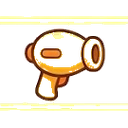
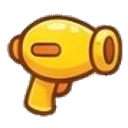
Fix sprite transparency by re-extracting from template sheet
AI-generated PNGs had baked checkerboard and matte backgrounds. Re-crop
parts and enemies from template-sheet.jpg, flood-remove checkerboard,
and defringe before saving RGBA assets. Add scripts/fix_asset_transparency.py
to regenerate locally when art changes.

diff --git a/scripts/fix_asset_transparency.py b/scripts/fix_asset_transparency.py
@@ -1,0 +1,258 @@
+#!/usr/bin/env python3
+"""Re-crop game sprites from template-sheet.jpg and strip baked checkerboard backgrounds."""
+
+from __future__ import annotations
+
+from collections import deque
+from pathlib import Path
+
+import numpy as np
+from PIL import Image
+
+ROOT = Path(__file__).resolve().parents[1]
+SHEET = ROOT / "assets/builder/template-sheet.jpg"
+
+# Bounding boxes from sat_mask.png on the 808×1024 template (left, top, right, bottom).
+CROPS: dict[str, tuple[int, int, int, int]] = {
+    "assets/builder/wing-rocket.png": (345, 230, 417, 276),
+    "assets/builder/wing-angel.png": (446, 200, 549, 266),
+    "assets/builder/wing-bat.png": (558, 206, 684, 257),
+    "assets/builder/wing-butterfly.png": (693, 200, 785, 267),
+    "assets/builder/core-green.png": (336, 292, 428, 368),
+    "assets/builder/core-star.png": (458, 292, 537, 368),
+    "assets/builder/core-blue.png": (575, 292, 667, 368),
+    "assets/builder/core-rocket.png": (704, 287, 773, 369),
+    "assets/builder/blaster-ray.png": (336, 388, 430, 448),
+    "assets/builder/blaster-tri.png": (492, 388, 562, 465),
+    "assets/builder/blaster-yellow.png": (578, 391, 661, 465),
+    "assets/builder/blaster-missile.png": (692, 384, 792, 448),
+    "assets/enemies/bug-ladybug.png": (317, 904, 401, 977),
+    "assets/enemies/bug-bee.png": (437, 898, 520, 981),
+    "assets/enemies/bug-purple.png": (564, 911, 655, 975),
+    "assets/enemies/bug-brown.png": (689, 903, 769, 985),
+}
+
+OUT_SIZE = {
+    "assets/builder/": 128,
+    "assets/enemies/": 96,
+}
+
+
+def is_light_bg(r: int, g: int, b: int, a: int, light_min: int) -> bool:
+    if a < 10:
+        return True
+    return r >= light_min and g >= light_min and b >= light_min
+
+
+def is_dark_bg(r: int, g: int, b: int, a: int, dark_max: int, dark_spread: int) -> bool:
+    if a < 10:
+        return True
+    mx, mn = int(max(r, g, b)), int(min(r, g, b))
+    return mx <= dark_max and (mx - mn) <= dark_spread
+
+
+def flood_background(arr: np.ndarray, mask_fn) -> np.ndarray:
+    h, w = arr.shape[:2]
+    seen = np.zeros((h, w), dtype=bool)
+    q: deque[tuple[int, int]] = deque()
+
+    def seed(y: int, x: int) -> None:
+        if mask_fn(y, x) and not seen[y, x]:
+            seen[y, x] = True
+            q.append((y, x))
+
+    for x in range(w):
+        seed(0, x)
+        seed(h - 1, x)
+    for y in range(h):
+        seed(y, 0)
+        seed(y, w - 1)
+
+    while q:
+        y, x = q.popleft()
+        for ny, nx in ((y - 1, x), (y + 1, x), (y, x - 1), (y, x + 1)):
+            if 0 <= ny < h and 0 <= nx < w and not seen[ny, nx] and mask_fn(ny, nx):
+                seen[ny, nx] = True
+                q.append((ny, nx))
+    return seen
+
+
+def strip_checkerboard(im: Image.Image) -> Image.Image:
+    arr = np.array(im.convert("RGBA"), copy=True)
+    light_min, dark_max, dark_spread = 190, 115, 65
+
+    def light(y: int, x: int) -> bool:
+        r, g, b, a = arr[y, x]
+        return is_light_bg(int(r), int(g), int(b), int(a), light_min)
+
+    def dark(y: int, x: int) -> bool:
+        r, g, b, a = arr[y, x]
+        return is_dark_bg(int(r), int(g), int(b), int(a), dark_max, dark_spread)
+
+    bg = flood_background(arr, light) | flood_background(arr, dark)
+    arr[bg, 3] = 0
+    return Image.fromarray(arr)
+
+
+def is_fringe_color(r: int, g: int, b: int) -> bool:
+    """Near-neutral light pixels from checkerboard / matte removal."""
+    mx, mn = max(r, g, b), min(r, g, b)
+    if mn < 178:
+        return False
+    if mx - mn > 45:
+        return False
+    return True
+
+
+def defringe(arr: np.ndarray, max_passes: int = 16) -> None:
+    h, w = arr.shape[:2]
+    for _ in range(max_passes):
+        a = arr[:, :, 3]
+        kill = np.zeros((h, w), dtype=bool)
+        for y in range(h):
+            for x in range(w):
+                if a[y, x] == 0:
+                    continue
+                r, g, b = (int(arr[y, x, 0]), int(arr[y, x, 1]), int(arr[y, x, 2]))
+                if not is_fringe_color(r, g, b):
+                    continue
+                for dy in (-1, 0, 1):
+                    for dx in (-1, 0, 1):
+                        if dy == 0 and dx == 0:
+                            continue
+                        ny, nx = y + dy, x + dx
+                        if ny < 0 or ny >= h or nx < 0 or nx >= w or a[ny, nx] == 0:
+                            kill[y, x] = True
+                            break
+                    if kill[y, x]:
+                        break
+        if not kill.any():
+            break
+        arr[kill, 3] = 0
+
+
+def trim_and_pad(im: Image.Image, size: int) -> Image.Image:
+    arr = np.array(im)
+    ys, xs = np.where(arr[:, :, 3] > 8)
+    if len(xs) == 0:
+        return Image.new("RGBA", (size, size), (0, 0, 0, 0))
+    x0, x1 = xs.min(), xs.max()
+    y0, y1 = ys.min(), ys.max()
+    pad = max(2, int(max(x1 - x0, y1 - y0) * 0.06))
+    x0 = max(0, x0 - pad)
+    y0 = max(0, y0 - pad)
+    x1 = min(arr.shape[1] - 1, x1 + pad)
+    y1 = min(arr.shape[0] - 1, y1 + pad)
+    cropped = im.crop((x0, y0, x1 + 1, y1 + 1))
+    cw, ch = cropped.size
+    scale = min((size - 8) / cw, (size - 8) / ch)
+    nw, nh = max(1, int(cw * scale)), max(1, int(ch * scale))
+    resized = cropped.resize((nw, nh), Image.Resampling.LANCZOS)
+    out = Image.new("RGBA", (size, size), (0, 0, 0, 0))
+    out.paste(resized, ((size - nw) // 2, (size - nh) // 2), resized)
+    return out
+
+
+def scrub_near_white(arr: np.ndarray) -> None:
+    """Remove leftover checkerboard specks (nearly neutral white)."""
+    h, w = arr.shape[:2]
+    for y in range(h):
+        for x in range(w):
+            if arr[y, x, 3] == 0:
+                continue
+            r, g, b = (int(arr[y, x, 0]), int(arr[y, x, 1]), int(arr[y, x, 2]))
+            mn, mx = min(r, g, b), max(r, g, b)
+            if mn >= 205 and (mx - mn) <= 28:
+                arr[y, x, 3] = 0
+
+
+def keep_largest_component(im: Image.Image, min_relative: float = 0.12) -> Image.Image:
+    """Drop stray fringe islands; keep the main sprite silhouette."""
+    arr = np.array(im.convert("RGBA"), copy=True)
+    a = arr[:, :, 3] > 20
+    h, w = a.shape
+    seen = np.zeros((h, w), dtype=bool)
+    best: list[tuple[int, int]] = []
+
+    for y in range(h):
+        for x in range(w):
+            if not a[y, x] or seen[y, x]:
+                continue
+            q: deque[tuple[int, int]] = deque([(y, x)])
+            seen[y, x] = True
+            coords = [(y, x)]
+            while q:
+                cy, cx = q.popleft()
+                for ny, nx in ((cy - 1, cx), (cy + 1, cx), (cy, cx - 1), (cy, cx + 1)):
+                    if 0 <= ny < h and 0 <= nx < w and a[ny, nx] and not seen[ny, nx]:
+                        seen[ny, nx] = True
+                        q.append((ny, nx))
+                        coords.append((ny, nx))
+            if len(coords) > len(best):
+                best = coords
+
+    if not best:
+        return im
+    mask = np.zeros((h, w), dtype=bool)
+    for y, x in best:
+        mask[y, x] = True
+    drop = a & ~mask
+    main_area = len(best)
+    seen[:] = False
+    for y in range(h):
+        for x in range(w):
+            if not a[y, x] or seen[y, x]:
+                continue
+            q = deque([(y, x)])
+            seen[y, x] = True
+            coords = [(y, x)]
+            while q:
+                cy, cx = q.popleft()
+                for ny, nx in ((cy - 1, cx), (cy + 1, cx), (cy, cx - 1), (cy, cx + 1)):
+                    if 0 <= ny < h and 0 <= nx < w and a[ny, nx] and not seen[ny, nx]:
+                        seen[ny, nx] = True
+                        q.append((ny, nx))
+                        coords.append((ny, nx))
+            if len(coords) < main_area * min_relative:
+                for cy, cx in coords:
+                    arr[cy, cx, 3] = 0
+    arr[drop, 3] = 0
+    return Image.fromarray(arr)
+
+
+def process_crop(sheet: Image.Image, box: tuple[int, int, int, int], out_size: int, *, solo: bool) -> Image.Image:
+    im = strip_checkerboard(sheet.crop(box))
+    arr = np.array(im)
+    defringe(arr)
+    scrub_near_white(arr)
+    if solo:
+        im = keep_largest_component(Image.fromarray(arr))
+    else:
+        im = Image.fromarray(arr)
+    return trim_and_pad(im, out_size)
+
+
+def out_size_for(rel_path: str) -> int:
+    for prefix, sz in OUT_SIZE.items():
+        if rel_path.startswith(prefix):
+            return sz
+    return 128
+
+
+def main() -> None:
+    if not SHEET.is_file():
+        raise SystemExit(f"Missing template sheet: {SHEET}")
+    sheet = Image.open(SHEET)
+    for rel, box in CROPS.items():
+        dest = ROOT / rel
+        dest.parent.mkdir(parents=True, exist_ok=True)
+        out = process_crop(sheet, box, out_size_for(rel), solo=rel.startswith("assets/enemies/"))
+        out.save(dest, optimize=True)
+        arr = np.array(out)
+        opaque = int((arr[:, :, 3] > 200).sum())
+        transparent = int((arr[:, :, 3] < 10).sum())
+        print(f"{rel}: transparent={transparent} opaque={opaque}")
+
+
+if __name__ == "__main__":
+    main()
